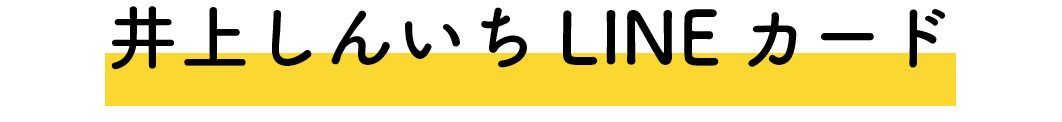
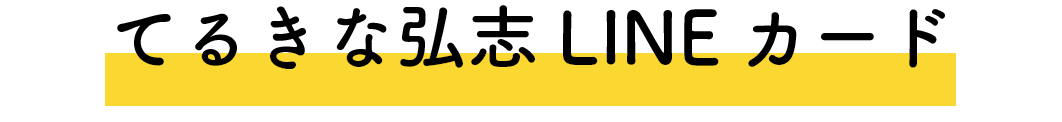
inoue→terukina

Changed region(s): [[0.0932, 0.0492, 0.5282, 0.5656]]

diff --git a/index.html b/index.html
@@ -108,12 +108,12 @@ function goTop(){
 
 		<h3 class="ttl1"><img src="img/ttl7.png" alt=""></h3>
 		<ul class="cards_list clrfx">
-			<li><a class="card_gallery" href="#card71"><img src="img/inoue001.png" alt=""></a></li>
-			<li><a class="card_gallery" href="#card72"><img src="img/inoue002.png" alt=""></a></li>
-			<li><a class="card_gallery" href="#card73"><img src="img/inoue003.png" alt=""></a></li>
-			<li><a class="card_gallery" href="#card74"><img src="img/inoue004.png" alt=""></a></li>
-			<li><a class="card_gallery" href="#card75"><img src="img/inoue005.png" alt=""></a></li>
-			<li><a class="card_gallery" href="#card76"><img src="img/inoue006.png" alt=""></a></li>
+			<li><a class="card_gallery" href="#card71"><img src="img/terukina001.png" alt=""></a></li>
+			<li><a class="card_gallery" href="#card72"><img src="img/terukina002.png" alt=""></a></li>
+			<li><a class="card_gallery" href="#card73"><img src="img/terukina003.png" alt=""></a></li>
+			<li><a class="card_gallery" href="#card74"><img src="img/terukina004.png" alt=""></a></li>
+			<li><a class="card_gallery" href="#card75"><img src="img/terukina005.png" alt=""></a></li>
+			<li><a class="card_gallery" href="#card76"><img src="img/terukina006.png" alt=""></a></li>
 		</ul>
 
 		<h3 class="ttl1"><img src="img/ttl8.png" alt=""></h3>
@@ -388,38 +388,38 @@ function goTop(){
 </div>
 
 <div id="card71" class="cardarea">
-	<a href="img/inoue001.png" download="img/inoue001.png">
-		<img src="img/inoue001.png" class="imgcard">
+	<a href="img/terukina001.png" download="img/terukina001.png">
+		<img src="img/terukina001.png" class="imgcard">
 		<img src="img/btn.png" alt="カードをダウンロード">
 	</a>
 </div>
 <div id="card72" class="cardarea">
-	<a href="img/inoue002.png" download="img/inoue002.png">
-		<img src="img/inoue002.png" class="imgcard">
+	<a href="img/terukina002.png" download="img/terukina002.png">
+		<img src="img/terukina002.png" class="imgcard">
 		<img src="img/btn.png" alt="カードをダウンロード">
 	</a>
 </div>
 <div id="card73" class="cardarea">
-	<a href="img/inoue003.png" download="img/inoue003.png">
-		<img src="img/inoue003.png" class="imgcard">
+	<a href="img/terukina003.png" download="img/terukina003.png">
+		<img src="img/terukina003.png" class="imgcard">
 		<img src="img/btn.png" alt="カードをダウンロード">
 	</a>
 </div>
 <div id="card74" class="cardarea">
-	<a href="img/inoue004.png" download="img/inoue004.png">
-		<img src="img/inoue004.png" class="imgcard">
+	<a href="img/terukina004.png" download="img/terukina004.png">
+		<img src="img/terukina004.png" class="imgcard">
 		<img src="img/btn.png" alt="カードをダウンロード">
 	</a>
 </div>
 <div id="card75" class="cardarea">
-	<a href="img/inoue005.png" download="img/inoue005.png">
-		<img src="img/inoue005.png" class="imgcard">
+	<a href="img/terukina005.png" download="img/terukina005.png">
+		<img src="img/terukina005.png" class="imgcard">
 		<img src="img/btn.png" alt="カードをダウンロード">
 	</a>
 </div>
 <div id="card76" class="cardarea">
-	<a href="img/inoue006.png" download="img/inoue006.png">
-		<img src="img/inoue006.png" class="imgcard">
+	<a href="img/terukina006.png" download="img/terukina006.png">
+		<img src="img/terukina006.png" class="imgcard">
 		<img src="img/btn.png" alt="カードをダウンロード">
 	</a>
 </div>
